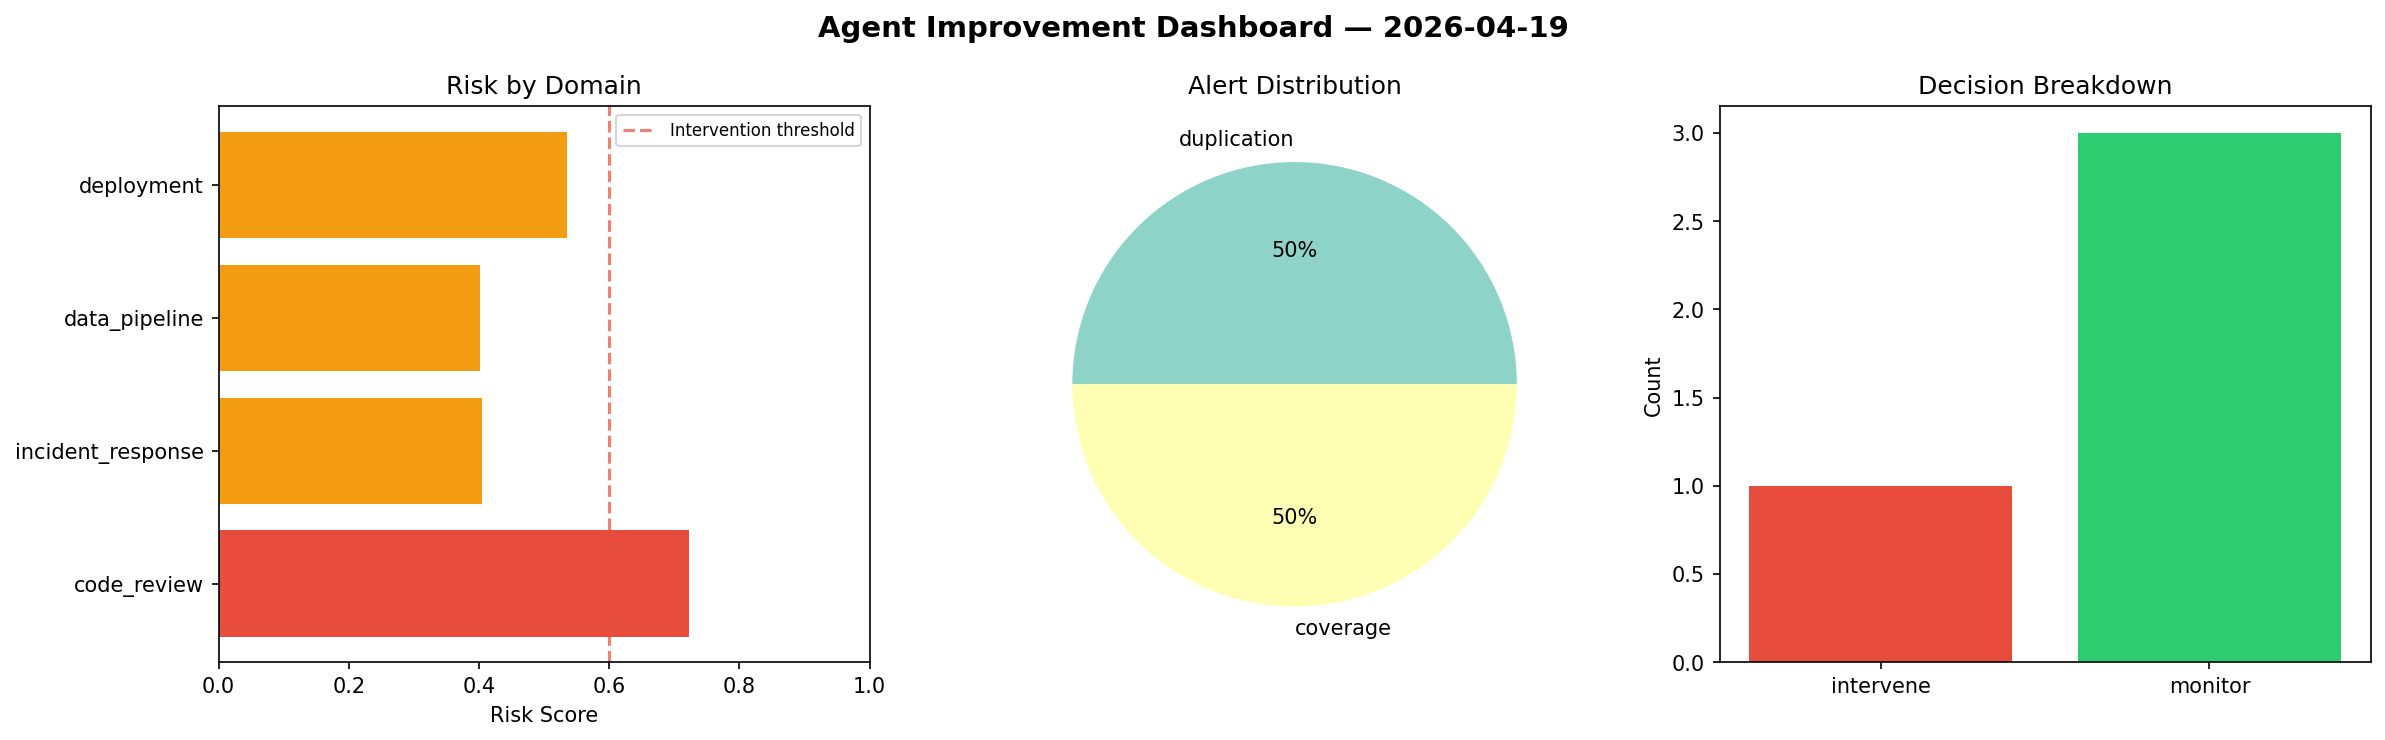
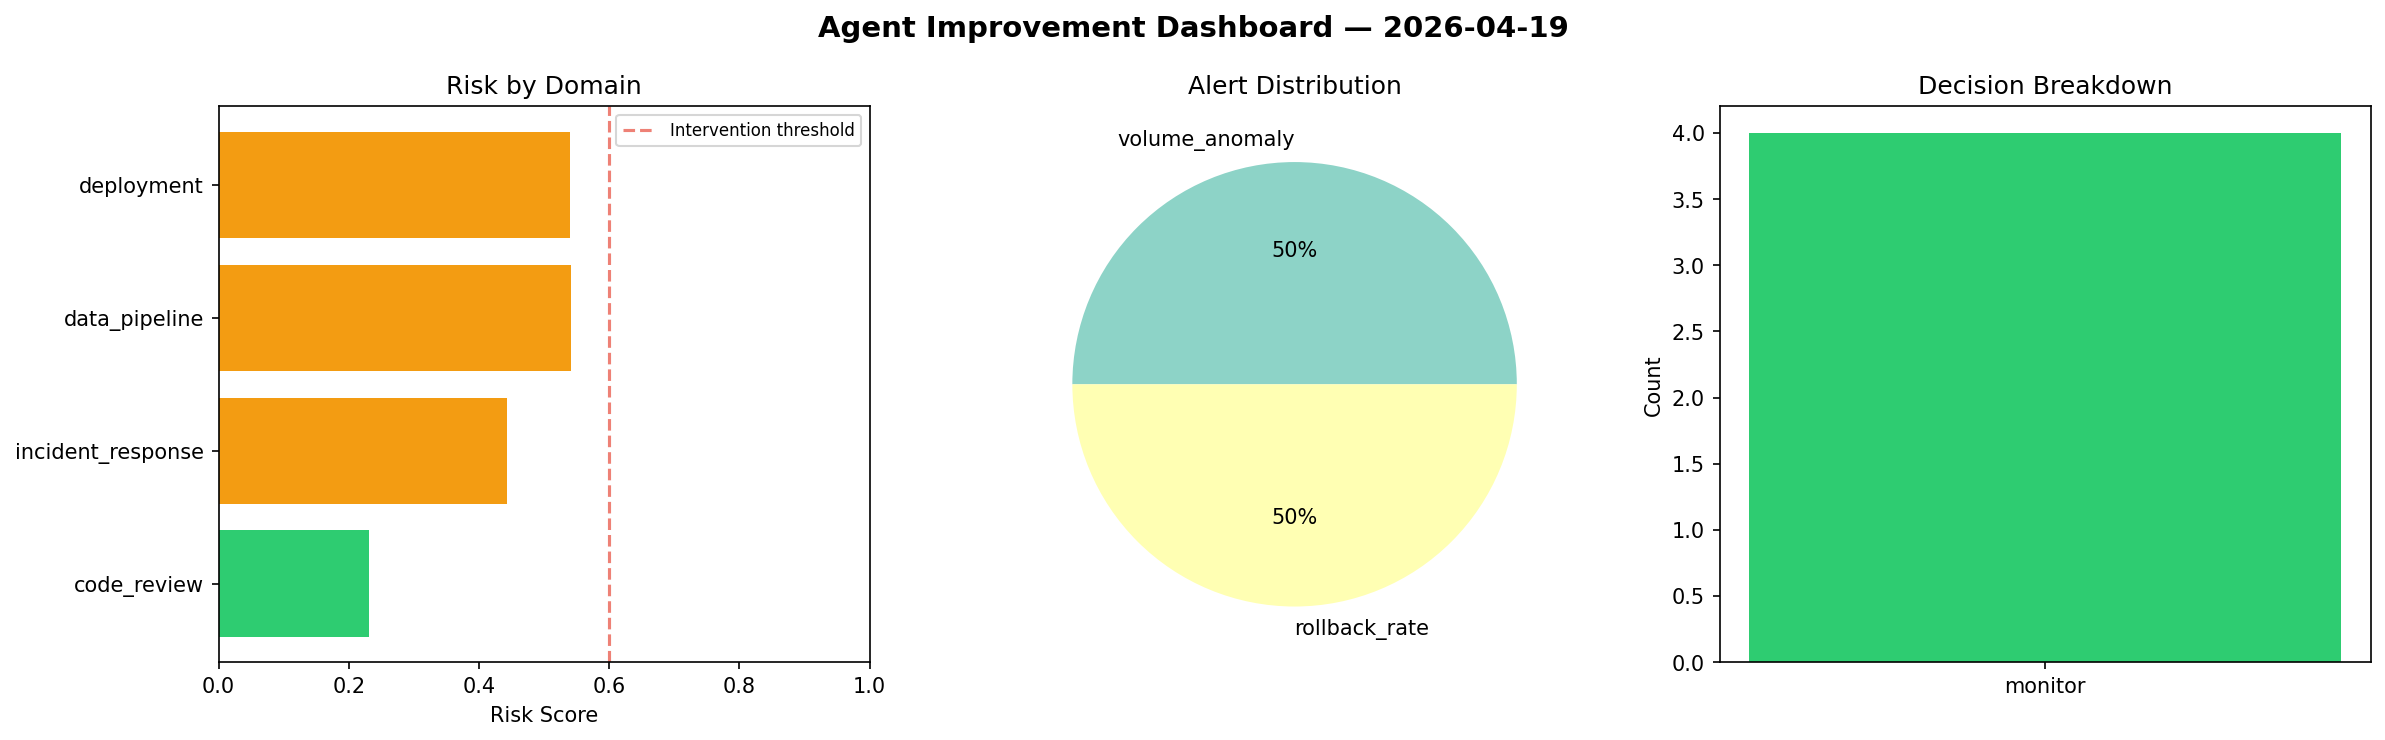
agent-improvement: daily cycle 2026-04-19T20:53

diff --git a/logs/2026-04-19.md b/logs/2026-04-19.md
@@ -1,6 +1,6 @@
 # Agent Improvement Report — 2026-04-19
 
-**Cycle ID:** `572243ed` | **Avg Risk:** 0.5158 | **Interventions:** 1/4
+**Cycle ID:** `447f4320` | **Avg Risk:** 0.4385 | **Interventions:** 0/4
 
 ![Dashboard](2026-04-19_dashboard.png)
 
@@ -10,18 +10,18 @@
 
 | Domain | Risk Score | Decision | Alerts |
 |--------|-----------|----------|--------|
-| code_review | 0.723 | intervene | duplication, coverage |
-| incident_response | 0.4042 | monitor | none |
-| data_pipeline | 0.4014 | monitor | none |
-| deployment | 0.5346 | monitor | none |
+| code_review | 0.2312 | monitor | none |
+| incident_response | 0.4425 | monitor | none |
+| data_pipeline | 0.5411 | monitor | volume_anomaly |
+| deployment | 0.5393 | monitor | rollback_rate |
 
 ## Delta vs Yesterday
 
 | Domain | Today | Yesterday | Change |
 |--------|-------|-----------|--------|
-| code_review | 0.723 | 0.363 | 📈 99.2% |
-| incident_response | 0.4042 | 0.603 | 📉 -33.0% |
-| data_pipeline | 0.4014 | 0.4181 | 📉 -4.0% |
-| deployment | 0.5346 | 0.4599 | 📈 16.2% |
+| code_review | 0.2312 | 0.363 | 📉 -36.3% |
+| incident_response | 0.4425 | 0.603 | 📉 -26.6% |
+| data_pipeline | 0.5411 | 0.4181 | 📈 29.4% |
+| deployment | 0.5393 | 0.4599 | 📈 17.3% |
 
-**Refinement:** `{'adjustment': 'maintain', 'trend': 'improving', 'window': 4}`
+**Refinement:** `{'adjustment': 'tighten_thresholds', 'trend': 'degrading', 'window': 4}`
